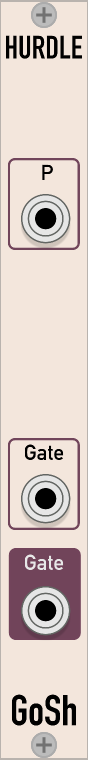
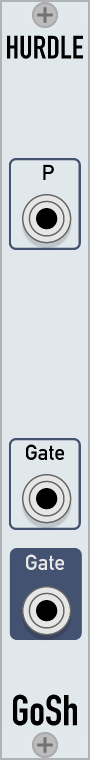
docs(README.md): Update Hurdle image; Add SEQ3st section

diff --git a/README.md b/README.md
@@ -6,8 +6,16 @@ A collection of plugins I needed but could not find.
 
 ![Hurdle](./doc/hurdle.png)
 
-An uncertain switch: Depending on the voltage at the **P**robability Input, a signal at the gate input may or may not show up at the gate output.
+An uncertain switch: Depending on the voltage at the **P**robability Input, a signal at the gate input may or may not trigger the gate output.
 
 * **P** in: Switching probability. 0-10V. The higher the input voltage, the more likely there will be a Gate signal at the **Gate out**put. 0V-10V corresponds to 0%-100%.
 * **Gate in**: Gate Signal (0/10V). When a rising edge occurs, the voltage at the **P** input is being sampled as the probability.
-* **Gate out**: Gate Signal (0/10V).
+* **Gate out**: Gate Signal (0/10V). Based on the **P** input voltage a gate signal may or may not be present at this output.
+
+## SEQ3st
+
+![SEQ3st](./doc/seq3st.png)
+
+A modified [VCV Rack Fundamental SEQ3](https://vcvrack.com/Fundamental.html) with stochastic gate outs per row. So you may use the CV as gate probability for the given step in the given row.
+
+* **P Gate** out 1-3: Gate Signal (0/10V). Based on the current CV value a gate signal may or may not be present at this output.
